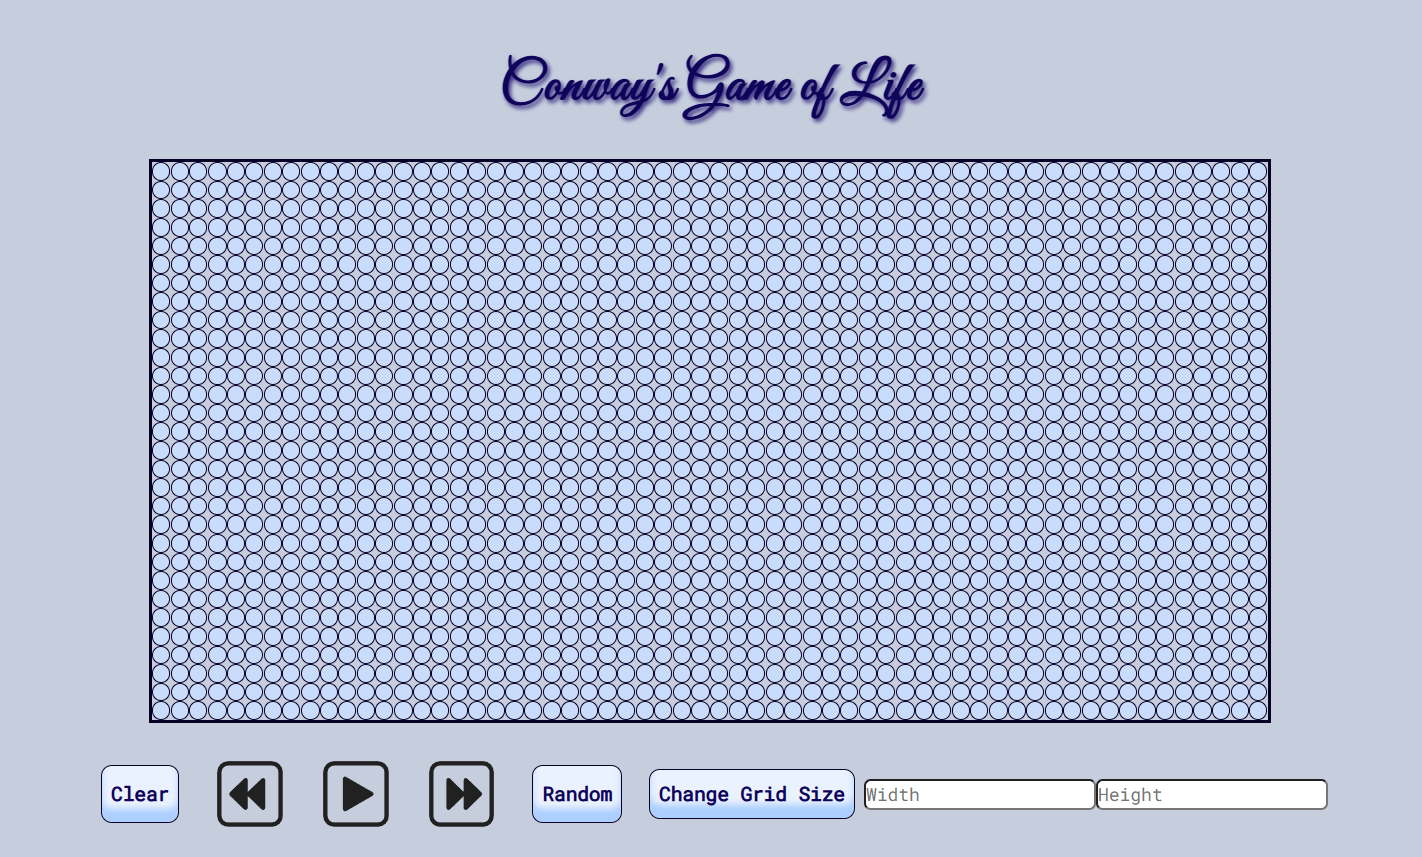
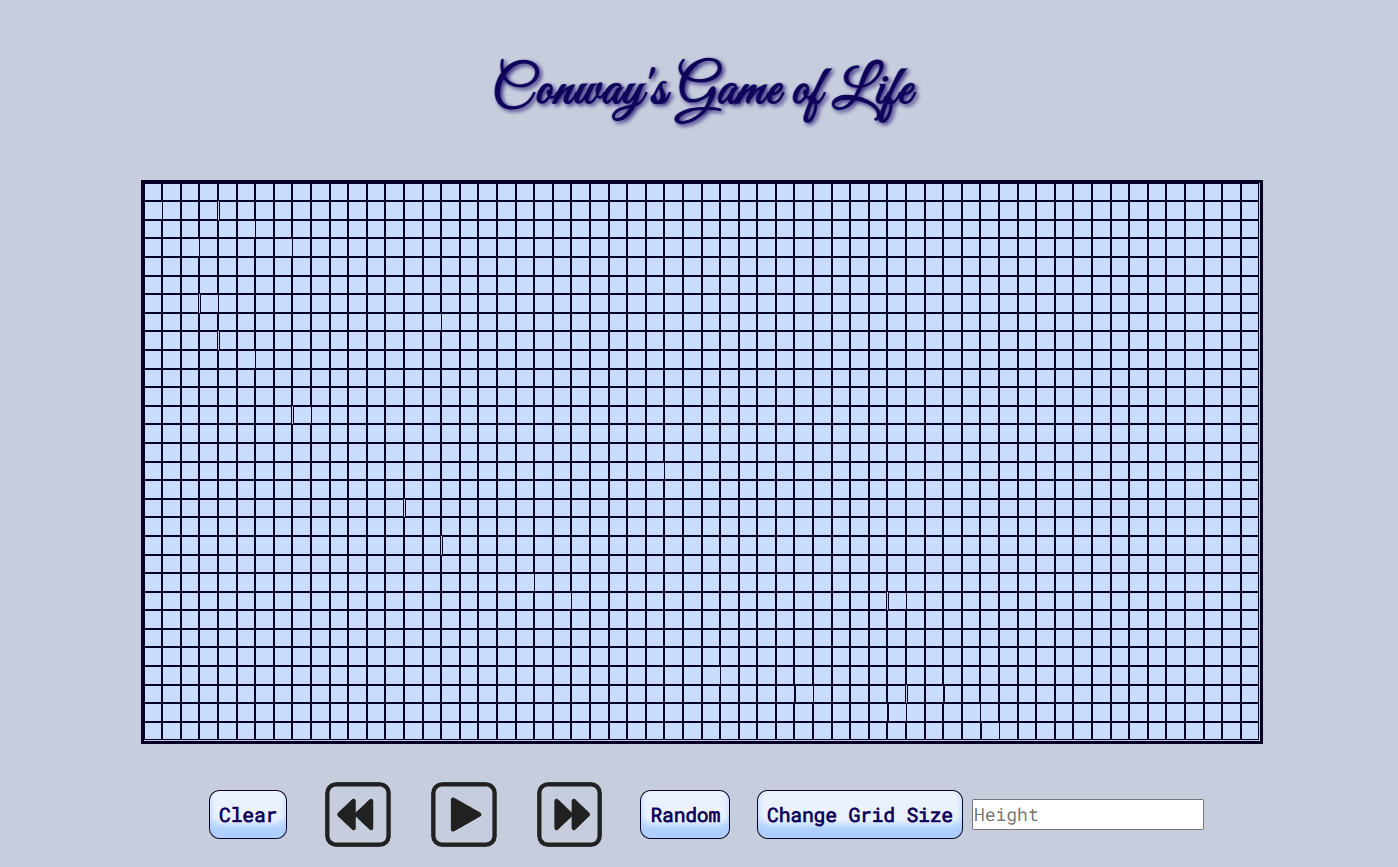
change grid size
this functionality allow user to change grid size by changing height of grid

diff --git a/gamerules.html b/gamerules.html
@@ -65,7 +65,7 @@
         of the preceding one.
       </p>
       <h2>The Game</h2>
-      <img src="images/grid.png" alt="Game Grid" class="center" />
+      <img src="images/Grid.png" alt="Game Grid" class="center" />
       <table>
         <caption>
           Button Functions

diff --git a/style.css b/style.css
@@ -142,7 +142,6 @@ body{
   border: solid 0.001rem var(--border-color1);
   cursor: pointer;
   transition:0.2s ease;
-  border-radius:50%;
 }
 .cell:hover{
   transform: scale(1.3);
